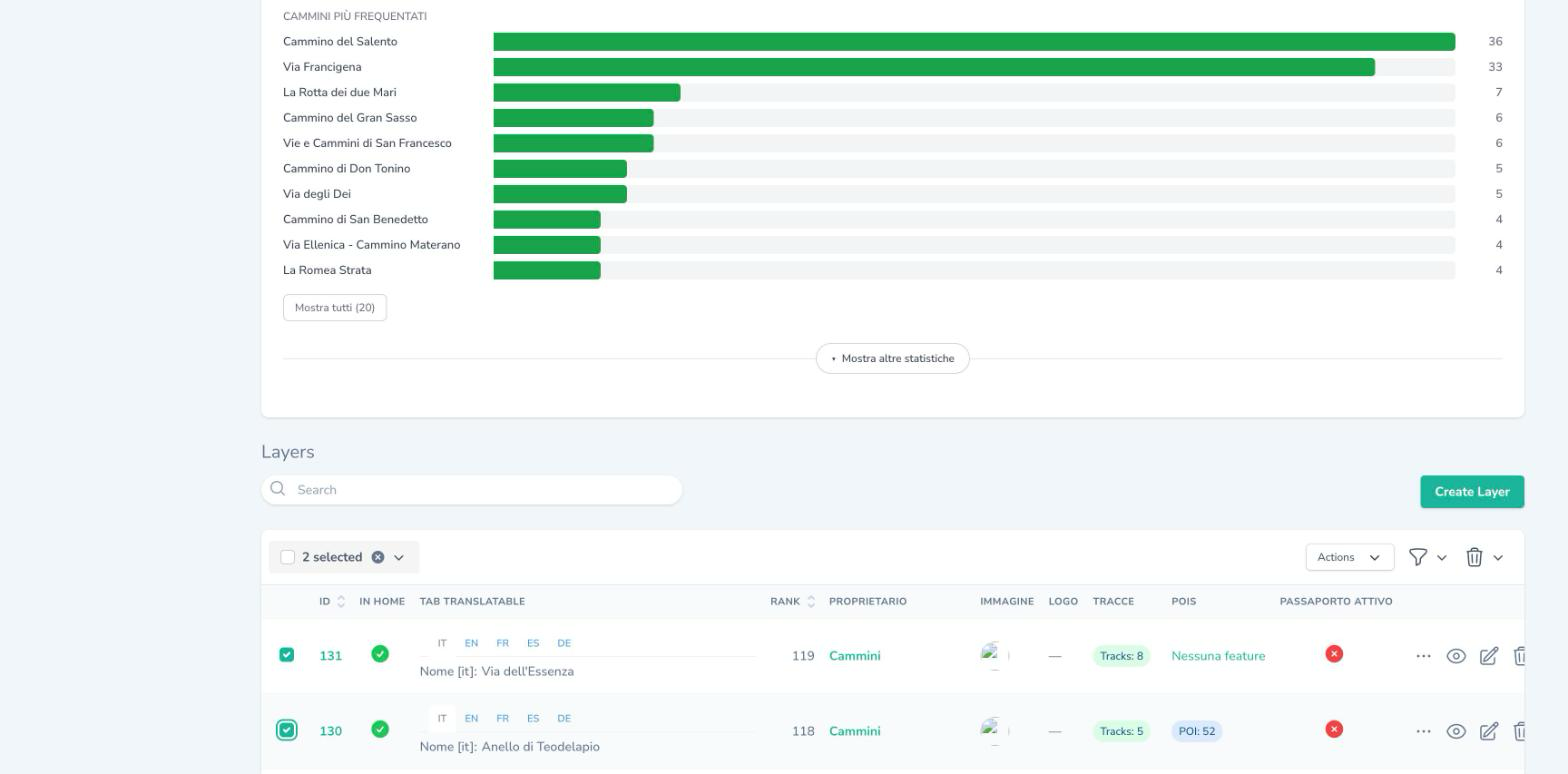
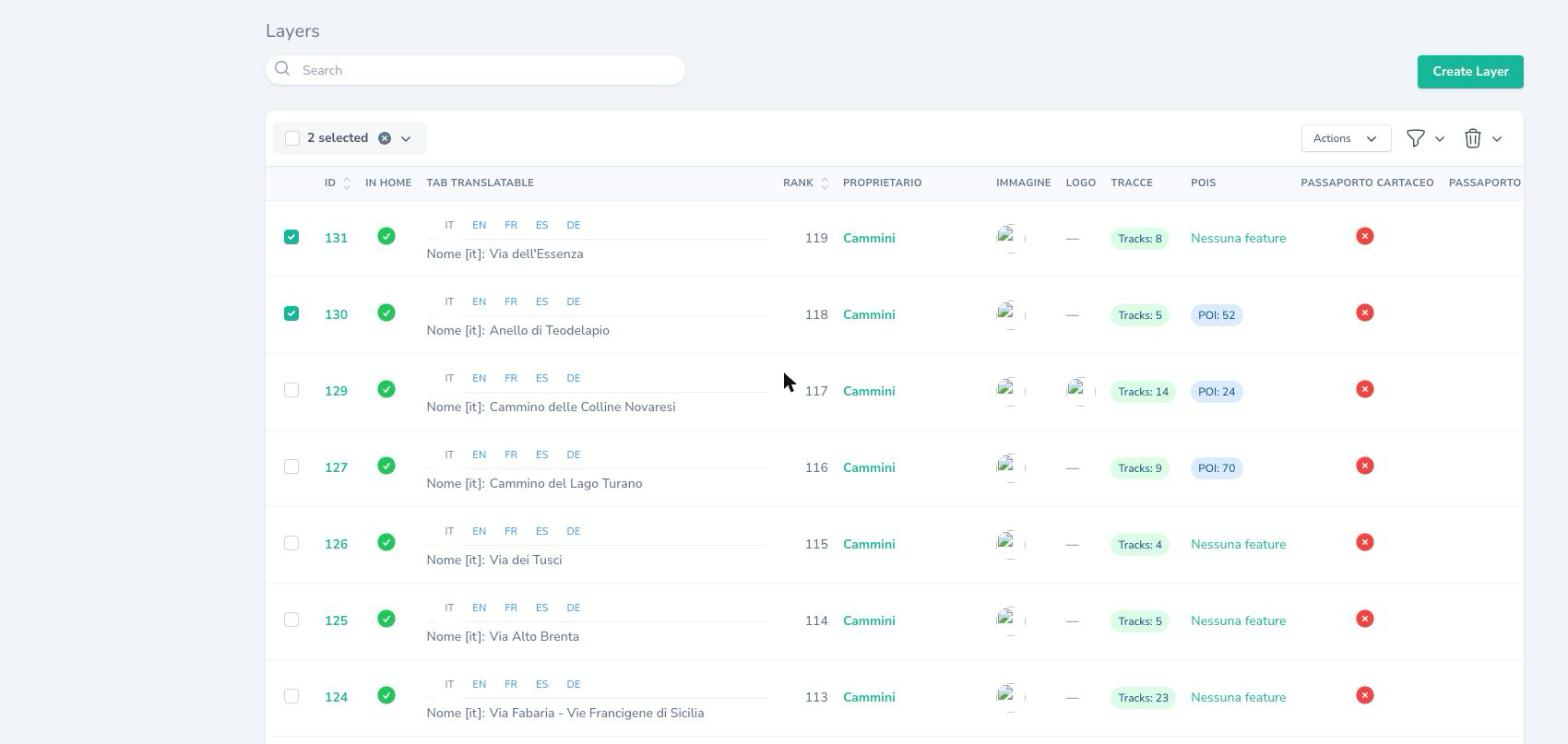
docs(oc:8809): guida all'attivazione del passaporto con i due flag

diff --git a/docs/guide/passaporto-attivazione/README.md b/docs/guide/passaporto-attivazione/README.md
@@ -4,44 +4,60 @@ Il Passaporto del camminatore (timbri, avanzamento, richiesta di certificazione)
 
 Solo gli amministratori possono modificarlo.
 
+## Due interruttori per ogni cammino
+
+Ogni cammino ha due interruttori:
+
+- **«Passaporto cartaceo»**: accende il Passaporto di quel cammino nell'app. I camminatori vedono timbri e avanzamento e possono chiedere la certificazione della credenziale cartacea, che il gestore approva o rifiuta dal pannello.
+- **«Passaporto automatico (GPS)»**: in più, le tappe si sbloccano da sole dalle tracce GPS che il camminatore registra con l'app, senza bisogno della credenziale cartacea.
+
+Le regole che legano i due interruttori:
+
+- **Accendere il passaporto automatico accende anche quello cartaceo.**
+- **Finché il passaporto automatico è acceso, quello cartaceo non si può spegnere**: per spegnere il Passaporto di un cammino, spegni prima il passaporto automatico.
+- **Spegnere il passaporto automatico cancella le tappe che erano state sbloccate dal GPS** su quel cammino. Le tappe confermate con la credenziale cartacea restano. Se lo riaccendi, le tappe si sbloccano di nuovo dalle tracce già registrate, con la data della riaccensione.
+
 ## Come funziona, in breve
 
-- Al rilascio il Passaporto è **spento su tutti i cammini**.
-- Finché **nessun cammino è acceso**, nell'app la scheda «Passaporto» mostra soltanto un messaggio che dice che il servizio non è ancora attivo.
-- Quando accendi un cammino, chi usa l'app vede il Passaporto di quel cammino (timbri, avanzamento, richiesta di certificazione). Le persone lo vedono **la prossima volta che aprono l'app o rientrano nella sezione Passaporto**.
-- Quando spegni un cammino, il Passaporto non si vede più, ma **non si perde nulla**: tappe validate e richieste restano salvate e ricompaiono se riaccendi il cammino.
+- Al rilascio entrambi gli interruttori sono **spenti su tutti i cammini**.
+- Finché **nessun cammino ha il passaporto cartaceo acceso**, nell'app la scheda «Passaporto» mostra soltanto un messaggio che dice che il servizio non è ancora attivo.
+- Quando accendi il passaporto cartaceo di un cammino, chi usa l'app vede il Passaporto di quel cammino. Le persone lo vedono **la prossima volta che aprono l'app o rientrano nella sezione Passaporto**.
+- Quando accendi il passaporto automatico, chi ha già camminato su quel cammino con l'app si ritrova le tappe sbloccate nel giro di qualche minuto.
+- Quando spegni il passaporto cartaceo, il Passaporto del cammino non si vede più, ma **non si perde nulla**: tappe validate e richieste restano salvate e ricompaiono se lo riaccendi.
 
 ## Accendere o spegnere un singolo cammino
 
 1. Nel menu del pannello, sotto **EC**, apri **Layers**: è l'elenco dei cammini.
 2. Apri il cammino in modifica con l'icona a forma di matita.
-3. Trova l'interruttore **«Passaporto attivo»**: sotto c'è il testo «Attiva il Passaporto per questo cammino nell'app.».
-4. Spunta la casella per accenderlo (togli la spunta per spegnerlo) e salva.
+3. Trova i due interruttori **«Passaporto cartaceo»** e **«Passaporto automatico (GPS)»**. Sotto ciascuno c'è un testo che ricorda cosa fa.
+4. Spunta la casella per accendere (togli la spunta per spegnere) e salva. Se spunti il passaporto automatico, la casella del passaporto cartaceo si spunta da sola e non si può togliere.
 
-![Scheda del cammino con l'interruttore «Passaporto attivo»](scheda-cammino-passaporto.png)
+![Scheda del cammino con i due interruttori del Passaporto](scheda-cammino-passaporto.png)
 
 ## Accendere o spegnere più cammini insieme
 
 Se devi cambiare molti cammini, usa la **modifica in blocco**.
 
-1. Nell'elenco dei cammini (**Layers**) spunta la casella a sinistra di ciascun cammino che vuoi cambiare. Nella colonna **«Passaporto attivo»** vedi subito quali sono accesi e quali spenti.
-2. Apri il menu **«Actions»** in alto a destra dell'elenco e scegli **«Modifica in blocco»**.
+1. Nell'elenco dei cammini (**Layers**) spunta la casella a sinistra di ciascun cammino che vuoi cambiare.
+2. Apri il menu **«Actions»** in alto a destra dell'elenco e scegli **«Passaporto: modifica in blocco»**.
 
 ![Elenco dei cammini con le caselle di selezione e il menu delle azioni](elenco-cammini-azioni.png)
 
-3. Si apre una finestra con il campo **«Passaporto attivo»**, che ha tre scelte:
-   - **Sì**: accende il Passaporto su tutti i cammini selezionati;
-   - **No**: lo spegne su tutti i cammini selezionati;
-   - **«Choose an option»** (campo vuoto): **nessuna modifica**. Lascia questa scelta se non vuoi toccare il Passaporto: i cammini restano come sono.
+3. Si apre una finestra con i due campi **«Passaporto cartaceo»** e **«Passaporto automatico (GPS)»**. Ognuno ha tre scelte:
+   - **Sì**: accende su tutti i cammini selezionati;
+   - **No**: spegne su tutti i cammini selezionati;
+   - **«Choose an option»** (campo vuoto): **nessuna modifica**. Lascia questa scelta sul campo che non vuoi toccare.
 4. Conferma con il pulsante **«Run Action»** (oppure **«Annulla»** per chiudere senza cambiare nulla).
 
-![Finestra della modifica in blocco con le tre scelte di «Passaporto attivo»](modifica-in-blocco-passaporto.png)
+![Finestra della modifica in blocco con i due campi del Passaporto](modifica-in-blocco-passaporto.png)
+
+Se chiedi di spegnere il passaporto cartaceo su cammini che hanno il passaporto automatico acceso, **non viene modificato nessun cammino** e compare un messaggio con i nomi dei cammini da sistemare. Spegni prima il passaporto automatico su quei cammini, poi riprova.
 
 ## Prima di spegnere un cammino
 
-Controlla che il cammino **non abbia richieste di certificazione in attesa**. Se ne esistono e spegni il cammino, il camminatore riceverà comunque la decisione per email, ma **non potrà vederla nell'app** finché il cammino resta spento. Conviene prima gestire le richieste in sospeso, poi spegnere.
+Controlla che il cammino **non abbia richieste di certificazione in attesa**. Se ne esistono e spegni il passaporto cartaceo, il camminatore riceverà comunque la decisione per email, ma **non potrà vederla nell'app** finché il cammino resta spento. Conviene prima gestire le richieste in sospeso, poi spegnere.
 
-Se spegni per errore, basta riaccendere: nulla è andato perso.
+Se spegni il passaporto cartaceo per errore, basta riaccenderlo: nulla è andato perso.
 
 ## Domande frequenti
 
@@ -49,10 +65,18 @@ Se spegni per errore, basta riaccendere: nulla è andato perso.
 
 Chiudi e riapri l'app, oppure esci e rientra nella sezione Passaporto: il cambiamento arriva in uno di questi momenti.
 
-**Ho spento un cammino: i timbri dei camminatori sono andati persi?**
+**Ho spento il passaporto cartaceo: i timbri dei camminatori sono andati persi?**
 
 No. Tappe validate e richieste restano salvate e tornano visibili se riaccendi il cammino.
 
+**Ho spento il passaporto automatico: cosa perdono i camminatori?**
+
+Le tappe che erano state sbloccate dal GPS su quel cammino. Restano quelle confermate con la credenziale cartacea. Se riaccendi il passaporto automatico, le tappe si sbloccano di nuovo dalle tracce già registrate, con la data della riaccensione.
+
+**Perché non riesco a togliere la spunta dal passaporto cartaceo?**
+
+Perché il passaporto automatico di quel cammino è acceso. Spegni prima quello.
+
 **Perché nell'app vedo solo un messaggio?**
 
-Perché nessun cammino è ancora acceso. Accendine almeno uno.
+Perché nessun cammino ha ancora il passaporto cartaceo acceso. Accendine almeno uno.
